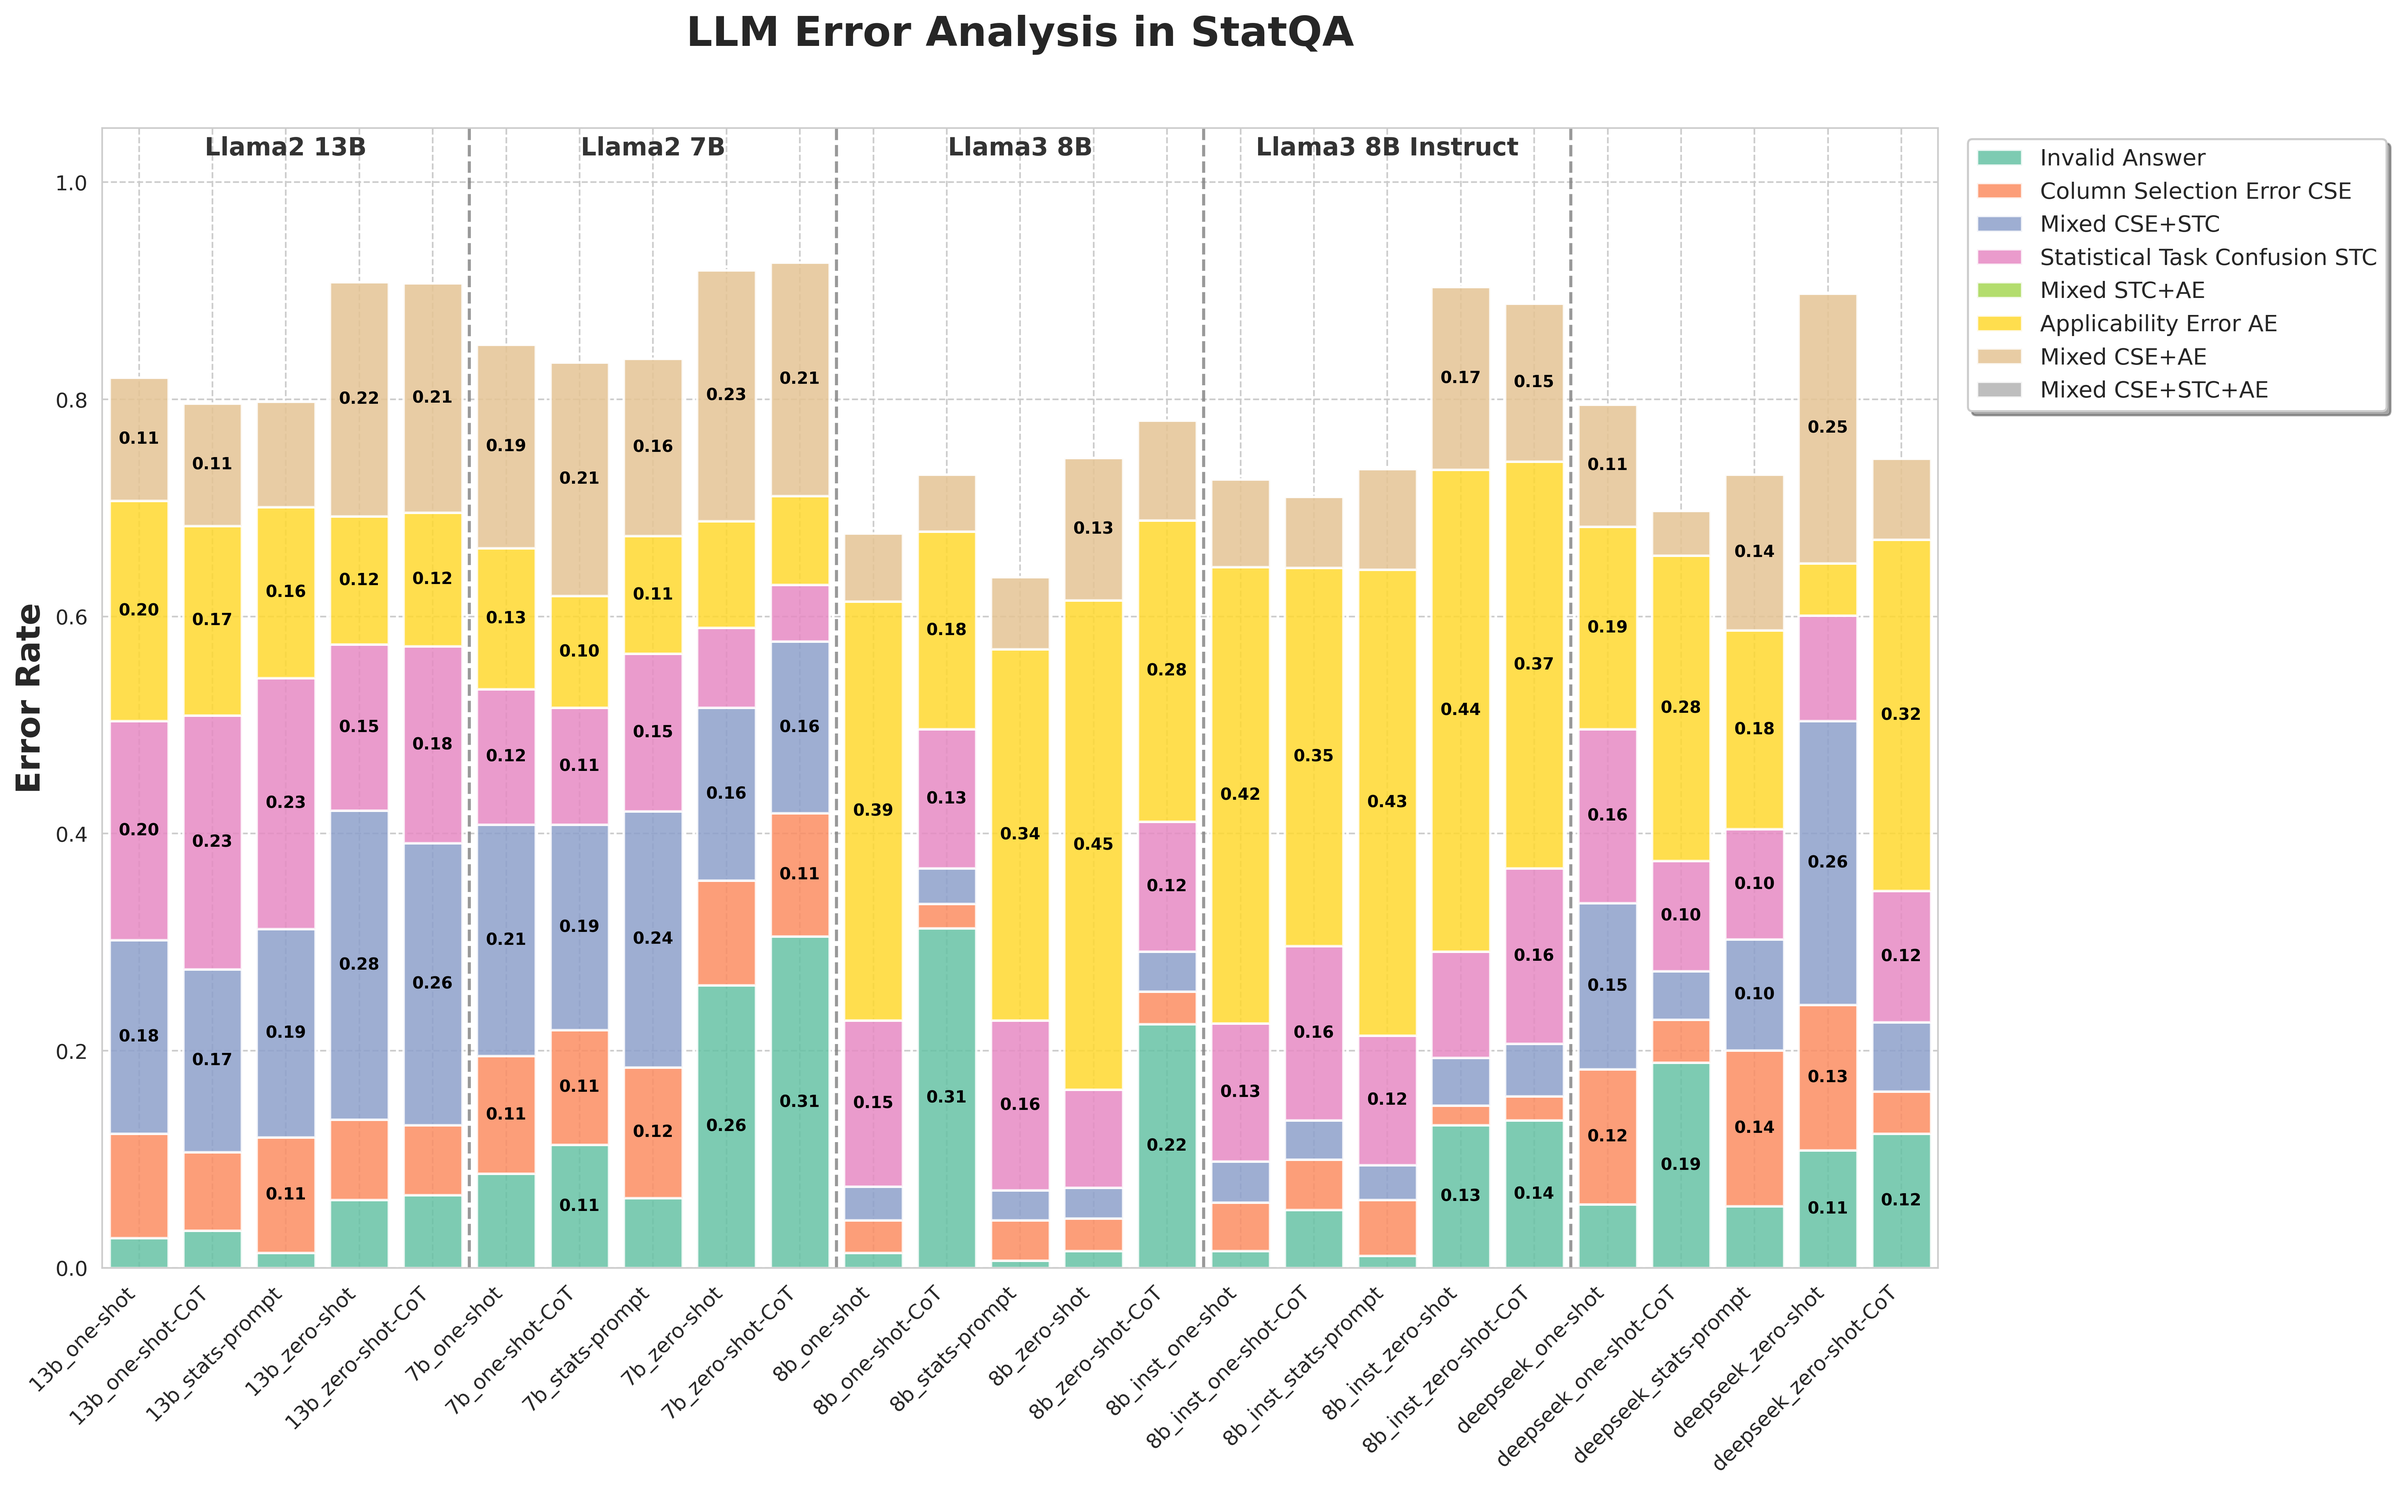
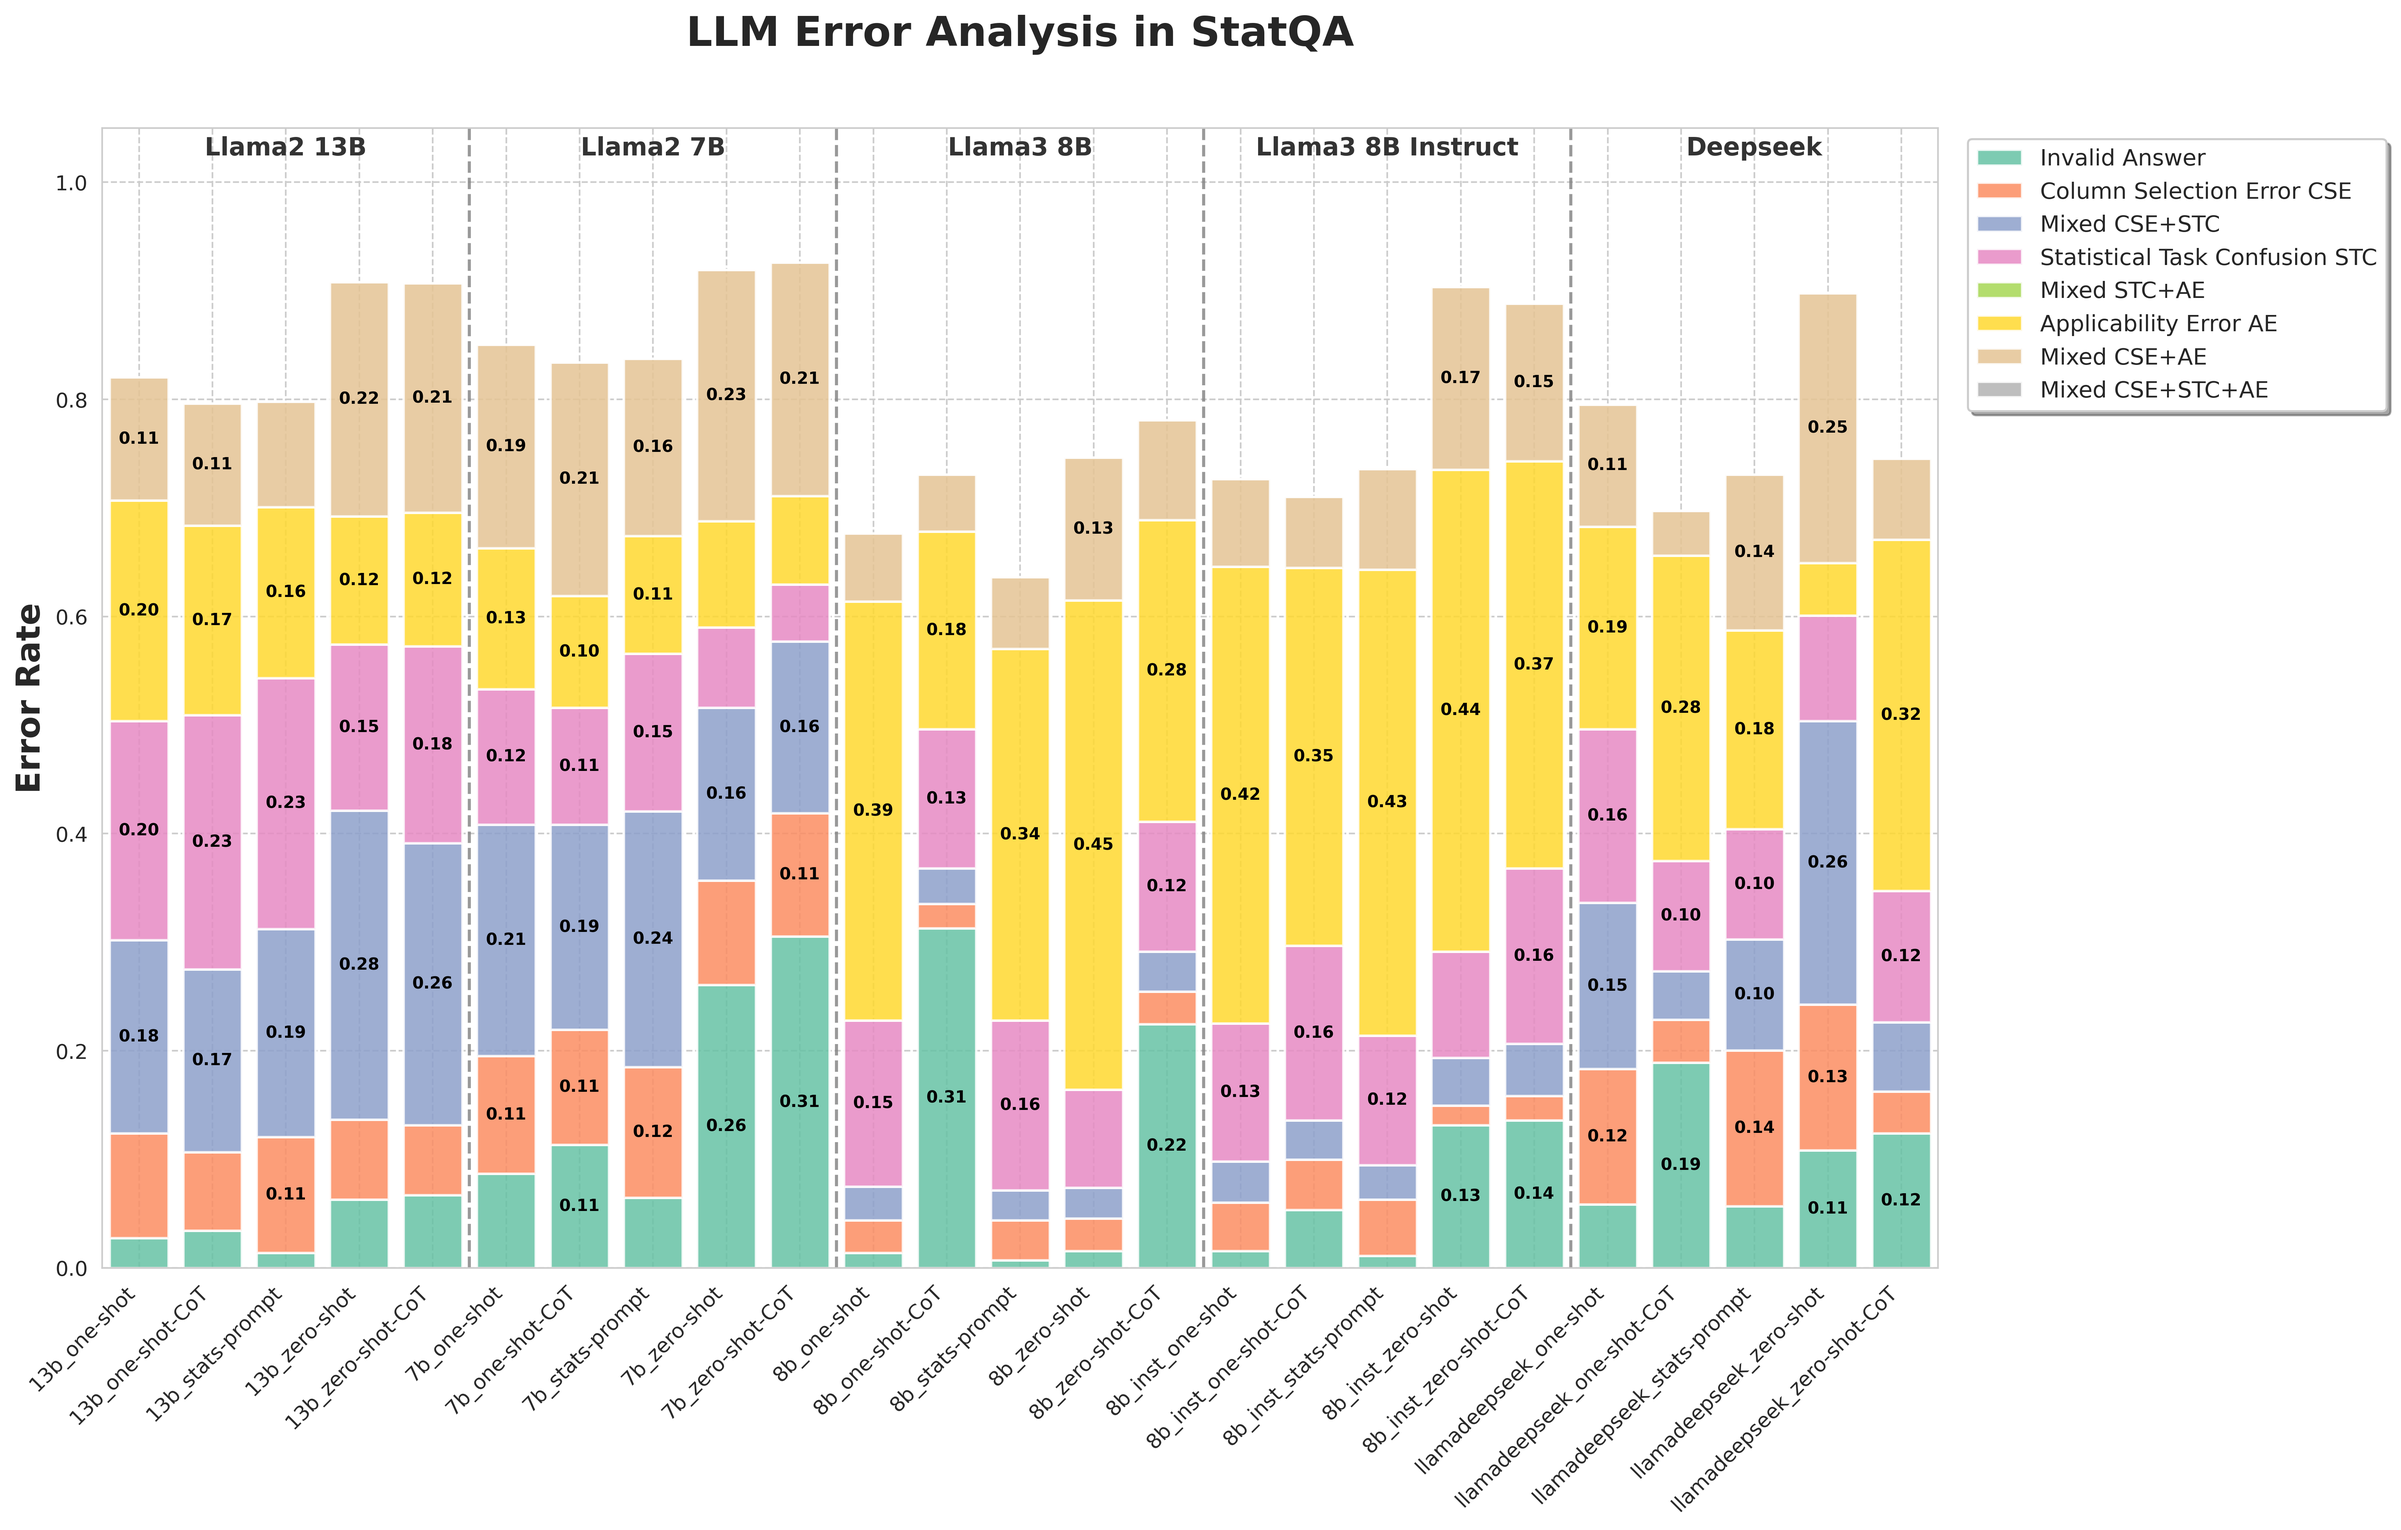
final error analysis bar plot. reproduction finished.

diff --git a/StatQA/Script/error_bar_chart.py b/StatQA/Script/error_bar_chart.py
@@ -34,7 +34,7 @@ def group_model(model):
     if 'llama2_7b' in model: return 'llama2_7b'
     if 'llama3_8b_instruct' in model: return 'llama3_8b_instruct'  # Check first!
     if 'llama3_8b' in model: return 'llama3_8b'
-    if 'llamadeepseek' in model: return 'llamadeepseek'
+    if 'deepseek' in model: return 'deepseek'
     return 'Other'
 
 # Add Group column
@@ -91,7 +91,7 @@ for group in groups_order:
 # Customize axes
 ax.set_xticks(x_pos)
 # Shorten model names for x-axis
-short_labels = [m.replace('llama2_', '').replace('llama3_', '').replace('llamadeepseek', 'deepseek').replace('instruct_', 'inst_') for m in df_errors['Model']]
+short_labels = [m.replace('llama2_', '').replace('llama3_', '').replace('deepseek', 'deepseek').replace('instruct_', 'inst_') for m in df_errors['Model']]
 ax.set_xticklabels(short_labels, fontsize=10, rotation=45, ha='right')
 
 ax.set_ylabel('Error Rate', fontsize=16, fontweight='bold')
